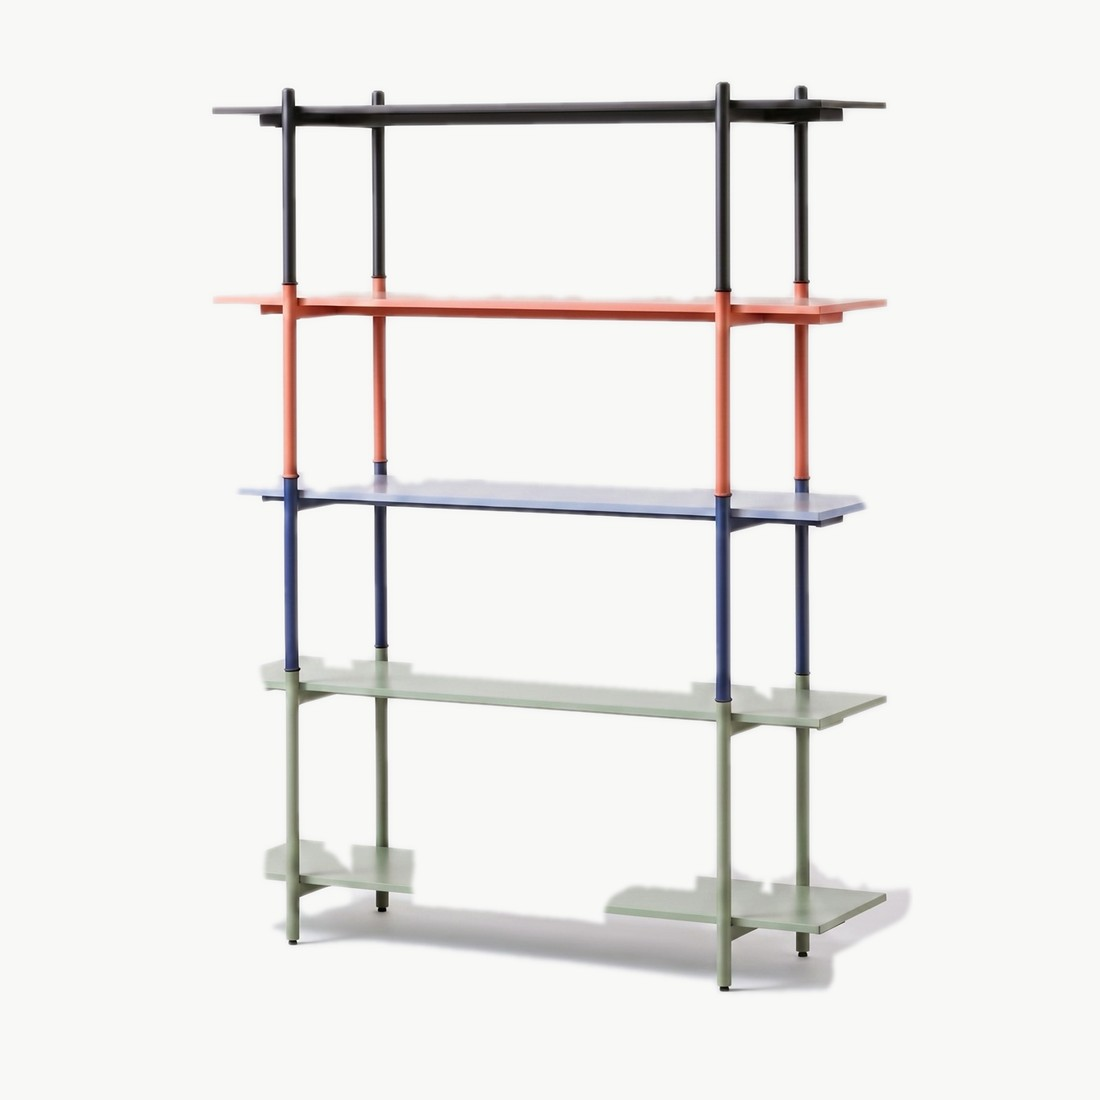
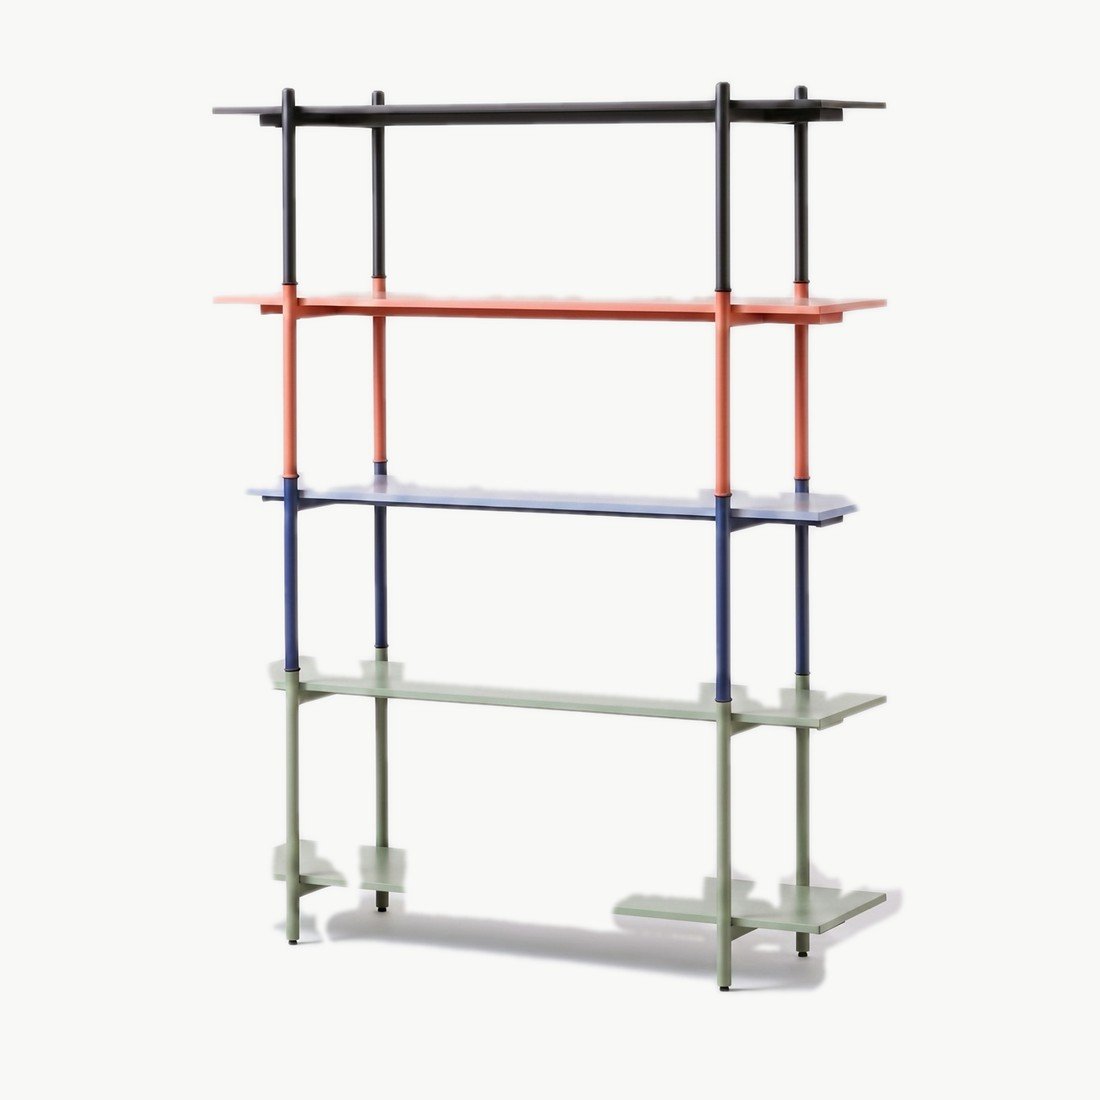
Colour tiles: keep the shelf and the shadow at its feet, and nothing else
The Stepped Display is shot against a backdrop that creases just beside it. The
crease is darker than paper, so it survived as a grey rag in the air, and it is
joined to the shelf through a board edge, so neither nearness nor connectedness
removed it alone. Both together do.

diff --git a/scripts/build-colour-tiles.py b/scripts/build-colour-tiles.py
@@ -92,10 +92,16 @@ def build(src: Path, dest: Path, size=(W, H)) -> str:
     # narrow and ringed by the board's own edges, while the gaps between tiers
     # are far wider than the kernel and stay paper.
     generous = ndimage.binary_closing(generous, disc(23))
-    # A crease or a shadow on the backdrop, far from the shelf, is darker than
-    # paper too, and against a clean field it lands as a grey rag hanging in
-    # the air. Keep only what is near the shelf itself.
-    generous &= ndimage.binary_dilation(strict, disc(61))
+    # A crease or a shadow on the backdrop is darker than paper too, and
+    # against a clean field it lands as a grey rag hanging in the air. Two
+    # constraints, and both are needed: stay near the shelf, because the
+    # backdrop of The Stepped Display creases right beside it and is joined to
+    # it through the shelf edge; and touch the shelf, because the same crease
+    # leaves crescents floating loose inside that neighbourhood.
+    generous &= ndimage.binary_dilation(strict, disc(41))
+    generous_labels, _ = ndimage.label(generous)
+    touching = np.unique(generous_labels[strict])
+    generous = np.isin(generous_labels, touching[touching > 0])
     generous = np.asarray(Image.fromarray((generous * 255).astype(np.uint8)).filter(ImageFilter.GaussianBlur(2.5))).astype(np.float32) / 255.0
     pixels = np.asarray(im).astype(np.float32)
     flat = pixels * generous[..., None] + PAPER * (1 - generous[..., None])
